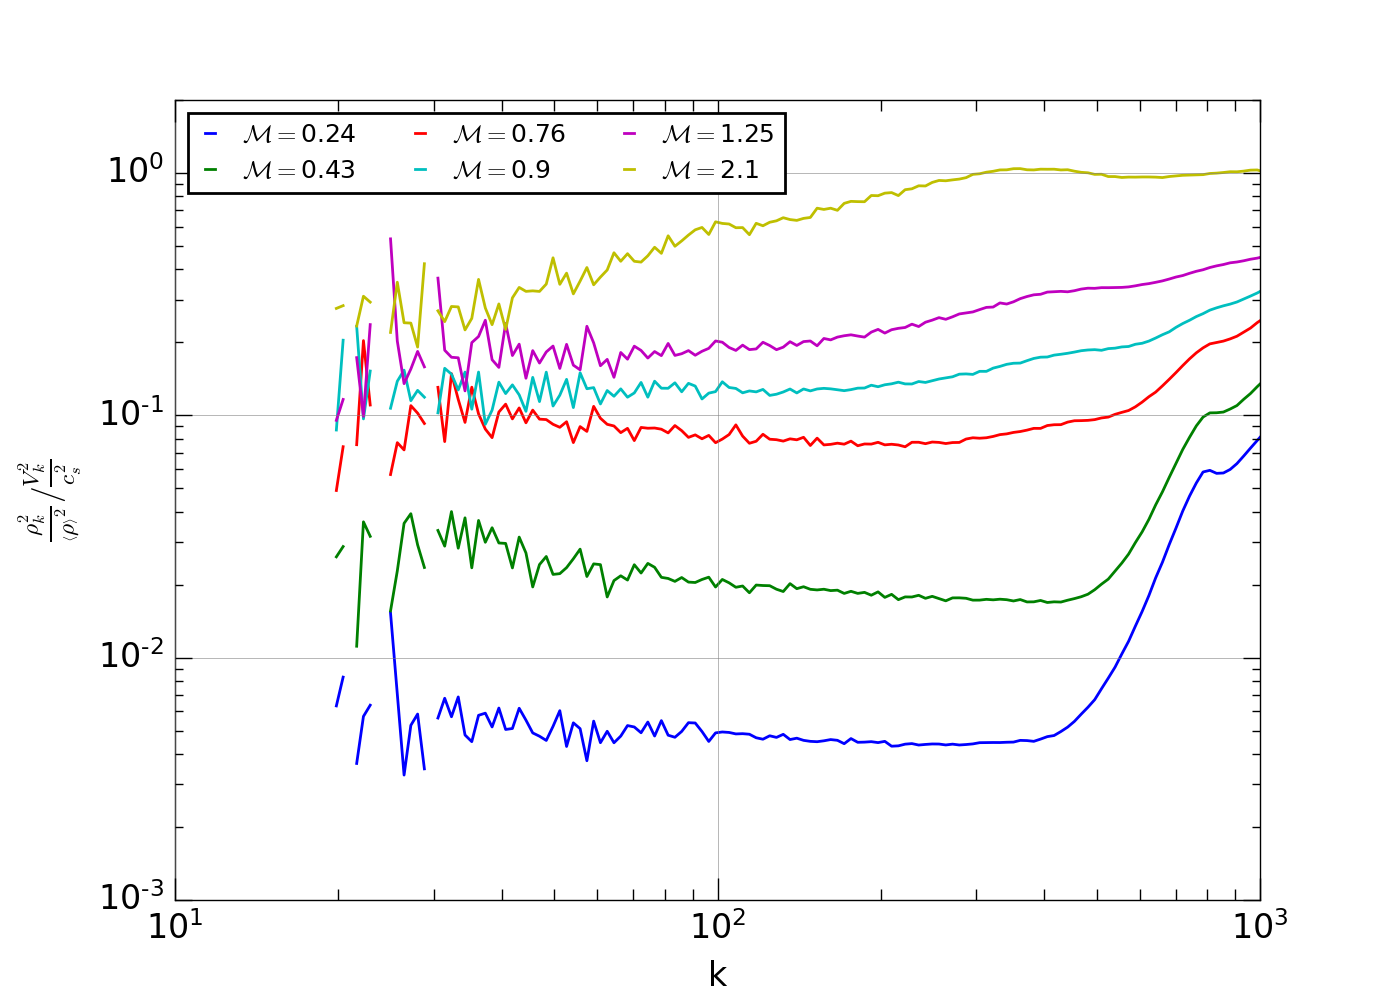
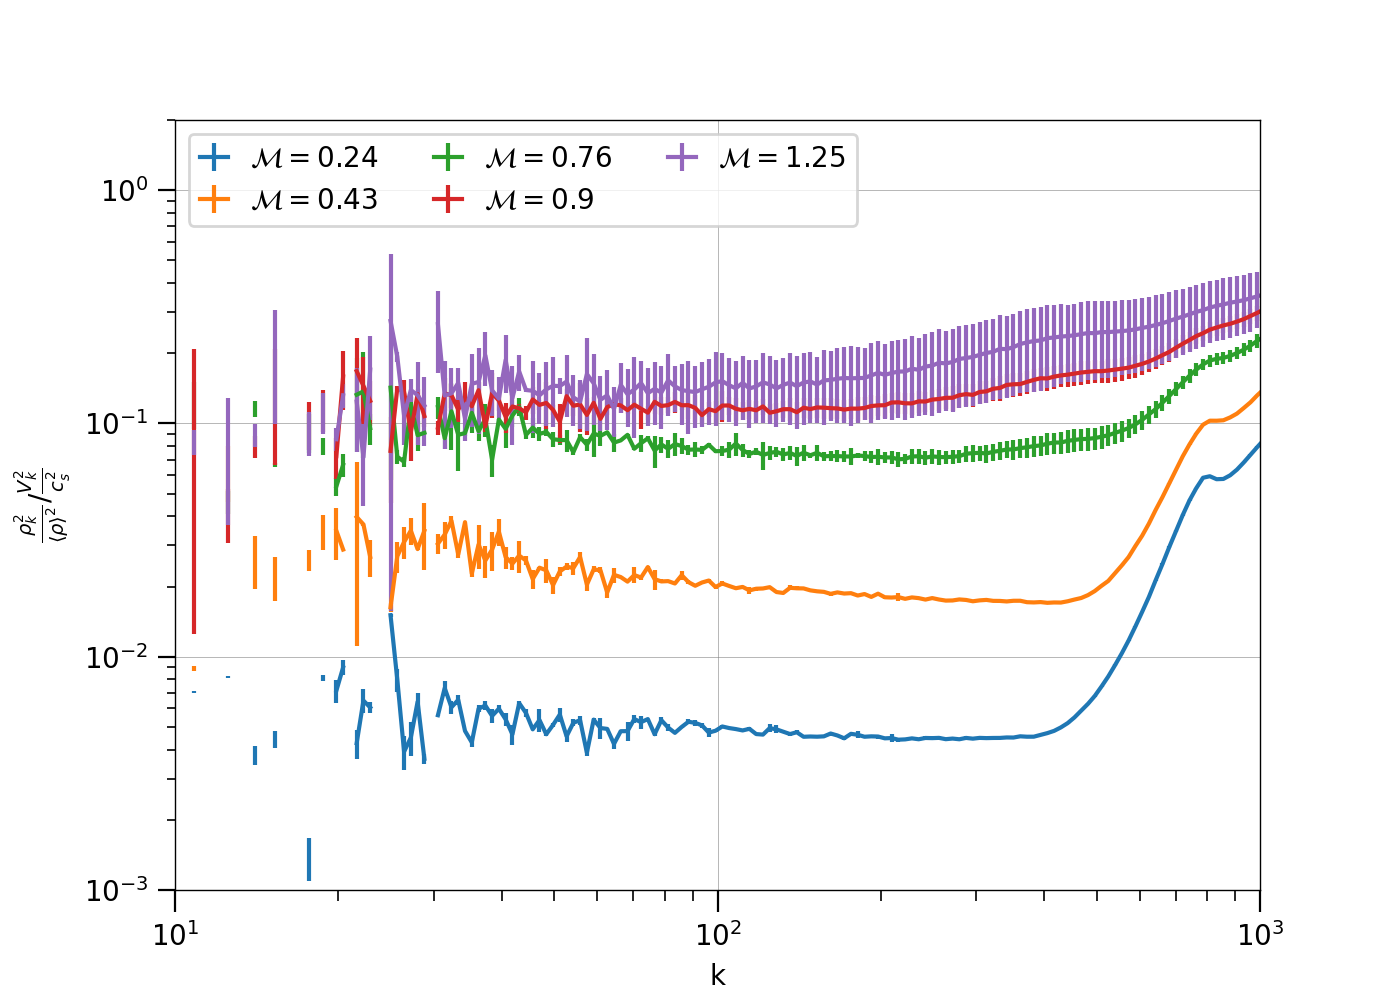
Added and modified plots

diff --git a/mach_temp_dist/mach-temp-dist.py b/mach_temp_dist/mach-temp-dist.py
@@ -30,32 +30,31 @@ nx,ny,nz=256,256,256
 
 #wdir=('thermal_heating/256/tabulated_cooling/F5e-1/k0-2/', 'thermal_heating/256/tabulated_cooling/F5e-1/k12/')
 #wdir=('tabulated_cooling/256/k0-2/', 'tabulated_cooling/256/k12/')
-wdir=('no_turb/2e-1/', 'turb_perturb//DkHC2e-1/', 'turb_perturb/DBh2e-1/')
+wdir=('no_turb/2e-1/')#, 'turb_perturb//DkHC2e-1/', 'turb_perturb/DBh2e-1/')
 
 #labels=('Bl', 'Bh')
 #labels=('Tl', 'Th')
-labels=('QD', 'TDh', 'BDh')
+labels=('QD')#, 'TDh', 'BDh')
 
 #t_mp=(10., 42.)
 #t_mp=(10., 51.)
-t_mp=(10.4, 42., 15.)
+t_mp=(10.4)#, 42., 15.)
 
 #t_turb=(1., 4.8)
 #t_turb=(0.8, 4.8)
-t_turb=(0.2, 10.2, 3.)
+t_turb=(0.2)#, 10.2, 3.)
 
-step_size=np.array((0.2, 0.2, 0.2))
+step_size=np.array((0.2))#, 0.2, 0.2))
 
 #Initialise the figure
 fig, (ax1, ax2) = plt.subplots(2, 1)
-for i1 in xrange(0, step_size.size):
-	filedir='/mnt/lustre/ug4/ugrajs/cooling/'+wdir[i1]
-	file=filedir+'mach'+str(int(t_turb[i1]/step_size[i1]+0.1)).rjust(4,'0')+'.txt'
-	data = np.loadtxt(file, skiprows=1, usecols=(0,1))
-	ax1.plot(data[:,0], data[:,1]/(float(nx*ny*nz)), label=labels[i1]+', t='+str(int(t_turb[i1]*UNIT_TIME))+' Myr')
-	file=filedir+'mach'+str(int(t_mp[i1]/step_size[i1]+0.1)).rjust(4,'0')+'.txt'
-	data = np.loadtxt(file, skiprows=1, usecols=(0,1))
-	ax1.plot(data[:,0], data[:,1]/(float(nx*ny*nz)), dashes=[30, 5, 10, 5], label=labels[i1]+', t='+str(int(t_mp[i1]*UNIT_TIME))+' Myr')
+filedir='/mnt/lustre/ug4/ugrajs/cooling/'+wdir
+file=filedir+'mach'+str(int(t_turb/step_size+0.1)).rjust(4,'0')+'.txt'
+data = np.loadtxt(file, skiprows=1, usecols=(0,1))
+ax1.plot(data[:,0], data[:,1]/(float(nx*ny*nz)), label=labels+', t='+str(int(t_turb*UNIT_TIME))+' Myr')
+file=filedir+'mach'+str(int(t_mp/step_size+0.1)).rjust(4,'0')+'.txt'
+data = np.loadtxt(file, skiprows=1, usecols=(0,1))
+ax1.plot(data[:,0], data[:,1]/(float(nx*ny*nz)), dashes=[30, 5, 10, 5], label=labels+', t='+str(int(t_mp*UNIT_TIME))+' Myr')
 fig.set_size_inches(6, 7)
 ax1.set_xscale('log')
 ax1.set_yscale('log')
@@ -70,14 +69,13 @@ ax1.set_position([box.x0, box.y0, box.width, box.height])
 ax1.legend(loc='lower center', ncol=3)
 #plt.savefig('mach-dist.png',dpi=250)
 
-for i1 in xrange(0, step_size.size):
-	filedir='/mnt/lustre/ug4/ugrajs/cooling/'+wdir[i1]
-	file=filedir+'temp'+str(int(t_turb[i1]/step_size[i1]+0.1)).rjust(4,'0')+'.txt'
-	data = np.loadtxt(file, skiprows=1, usecols=(0,1))
-	ax2.plot(data[:,0], data[:,1]/(float(nx*ny*nz)), label=labels[i1]+', t='+str(int(t_turb[i1]*UNIT_TIME))+' Myr')
-	file=filedir+'temp'+str(int(t_mp[i1]/step_size[i1]+0.1)).rjust(4,'0')+'.txt'
-	data = np.loadtxt(file, skiprows=1, usecols=(0,1))
-	ax2.plot(data[:,0], data[:,1]/(float(nx*ny*nz)), dashes=[30, 5, 10, 5], label=labels[i1]+', t='+str(int(t_mp[i1]*UNIT_TIME))+' Myr')
+filedir='/mnt/lustre/ug4/ugrajs/cooling/'+wdir
+file=filedir+'temp'+str(int(t_turb/step_size+0.1)).rjust(4,'0')+'.txt'
+data = np.loadtxt(file, skiprows=1, usecols=(0,1))
+ax2.plot(data[:,0], data[:,1]/(float(nx*ny*nz)), label=labels+', t='+str(int(t_turb*UNIT_TIME))+' Myr')
+file=filedir+'temp'+str(int(t_mp/step_size+0.1)).rjust(4,'0')+'.txt'
+data = np.loadtxt(file, skiprows=1, usecols=(0,1))
+ax2.plot(data[:,0], data[:,1]/(float(nx*ny*nz)), dashes=[30, 5, 10, 5], label=labels+', t='+str(int(t_mp*UNIT_TIME))+' Myr')
 ax2.set_xscale('log')
 ax2.set_yscale('log')
 ax2.set_xlim(1e5, 1e8)
@@ -92,7 +90,7 @@ ax2.legend(loc='lower center', ncol=3)
 
 #plt.savefig('mach-temp-dist-B.png',dpi=250, mode="expand", borderaxespad=0.)
 #plt.savefig('mach-temp-dist-T.png',dpi=250, mode="expand", borderaxespad=0.)
-plt.savefig('mach-temp-dist-D.png',dpi=250, mode="expand", borderaxespad=0.)
+plt.savefig('mach-temp-dist-no_turb.png',dpi=250, mode="expand", borderaxespad=0.)
 
 plt.close()
 

diff --git a/All_analysis/rho-vel-spectra.py b/All_analysis/rho-vel-spectra.py
@@ -20,7 +20,7 @@ plot.rcParams.update(params)
 start_time = time.time()
 
 #Initialise the figure
-fig, ax = plt.subplots()
+fig, (ax1, ax2) = plt.subplots(2, 1, sharex=True)
 fig.set_size_inches(7, 5)
 
 start=np.array((100, 75, 20, 14, 5, 2))
@@ -32,7 +32,7 @@ time_step=0.2
 no_bins=200
 no_files=2
 
-for i in xrange(0, start.size-1):
+for i in xrange(0, start.size):
 	#Load data files
 	#Declare all parameters and filenames, file location
 
@@ -56,6 +56,10 @@ for i in xrange(0, start.size-1):
 	   Ekcomp1[filenumber-start[i]]=epsilon[i]**(-2/3)*(datax1[:,2]+datax[:,2]+datax3[:,2])
 
 	k1=k1[0]
+	del_Ek1=np.std(Ek1,0)
+	Ek1=np.average(Ek1,0)
+	Ek_comp1=np.average(Ekcomp1,0)
+	del_Ek_comp1=np.std(Ekcomp1,0)
 
 	k2=np.zeros((no_files,no_bins))
 	Ek2=np.zeros((no_files,no_bins))
@@ -72,22 +76,36 @@ for i in xrange(0, start.size-1):
 #Calculate average energy injection
 	   Ekcomp2[filenumber-start[i]]=epsilon[i]**(-2/3)*data[:,2]
 	k2=k2[0]
-
-	ratiok=Ek2*cs[i]**2./Ek1
-	del_ratiok=np.std(ratiok,0)
-	ratio_k=np.average(ratiok,0)
+	del_Ek2=np.std(Ek2,0)
+	Ek2=np.average(Ek2,0)
+	Ek_comp2=np.average(Ekcomp2,0)
+	del_Ek_comp2=np.std(Ekcomp2,0)
+#Here we plot the compensated power spectrum, multiplying E(k) with k^(5/3)
 	#Plot ratio
-	ax.errorbar(k1[1:-10], ratio_k[1:-10], yerr=del_ratiok[1:-10], label='$\mathcal{M}=$'+str(mach[i]))
+	ax1.errorbar(k1[1:-10],Ek1[1:-10]/cs[i]**2., yerr=del_Ek1[1:-10]/cs[i]**2., fmt='d', label='$\mathcal{M}=$'+str(mach[i]), markersize=0.5)
+	ax2.errorbar(k1[1:-10],Ek2[1:-10], yerr=del_Ek2[1:-10], fmt='*', label='$\mathcal{M}=$'+str(mach[i]), markersize=0.5)
 
-ax.set_yscale('log')
-ax.set_xscale('log')
-ax.set_xlabel('k')
-ax.set_ylabel(r'$\frac{\rho_k^2}{\left<\rho\right>^2}/\frac{V_k^2}{c_s^2}$')
-ax.set_ylim(1.e-3,2.)
-ax.set_xlim(1.e1,1e3)
-ax.legend(loc='upper left', bbox_to_anchor=(0., 1.0), ncol=3)
+x=np.arange(10., 10**3., 1.)
+ax1.plot(x, 5*x**(-5./3.), label=r'$k^{-5/3}$', marker="o", markeredgecolor='none', markersize=0.5, linewidth=0.5)
+ax1.set_yscale('log')
+ax1.set_xscale('log')
+ax1.set_xlabel('k')
+ax1.set_ylabel(r'$\frac{V_k^2}{c_s^2}$')
+#ax1.set_ylim(1.e-3,2.)
+#ax1.set_xlim(1.e1,1e3)
+ax1.legend(loc='lower left', bbox_to_anchor=(0., 0.0), ncol=3)
+
+ax2.plot(x, 5*x**(-5./3.), label=r'$k^{-5/3}$', marker="o", markeredgecolor='none', markersize=0.5, linewidth=0.5)
+ax2.set_yscale('log')
+ax2.set_xscale('log')
+ax2.set_xlabel('k')
+ax2.set_ylabel(r'$\frac{\rho_k^2}{\left<\rho\right>^2}$')
+#ax2.set_ylim(1.e-3,2.)
+#ax2.set_xlim(1.e1,1e3)
+ax2.legend(loc='lower left', bbox_to_anchor=(0., 0.0), ncol=3)
 #ax.set_title(r'Ratio of velocity and density power spectra' )
-ax.grid(color='grey', linestyle='-', linewidth=0.2)
-plt.savefig('Ratio_spectra_256.png',dpi=200)
+ax2.grid(color='grey', linestyle='-', linewidth=0.2)
+ax1.grid(color='grey', linestyle='-', linewidth=0.2)
+plt.savefig('rho-vel-spectra_256.png',dpi=200)
 
 print("--- %s seconds ---" % (time.time() - start_time))

diff --git a/surface_brightness/sbk_rhok_ratio.py b/surface_brightness/sbk_rhok_ratio.py
@@ -1,0 +1,61 @@
+import numpy as np
+import matplotlib.pyplot as plt
+import matplotlib.colors as colors
+import time
+from scipy.optimize import curve_fit
+from scipy import stats
+import pylab as plot
+plt.style.use('classic')
+params = {'legend.fontsize':10.,
+          'legend.handlelength': 1.0}
+plt.rcParams['axes.linewidth'] = .5
+plt.rcParams['xtick.major.size'] = 8
+plt.rcParams['xtick.minor.size'] = 4
+plt.rcParams['ytick.major.size'] = 6
+plt.rcParams['ytick.minor.size'] = 3
+plt.rcParams['ytick.minor.size'] = 3
+plot.rcParams.update(params)
+
+#Compute how long the simulation takes
+start_time = time.time()
+
+#Initialise the figure
+
+start=np.array((83, 100, 75, 35, 20, 18, 14, 5, 4, 2))
+amp=np.array((0.005, 0.005, 0.02, 0.02, 0.10, 0.1, 0.1, 0.9, 0.9, 2.5))
+mach=np.array((0.21, 0.24, 0.43, 0.50, 0.75, 0.8, 0.9, 1.2, 1.5, 2.0))
+time_step=0.2
+no_bins=200
+no_files=1
+sb_dev=np.zeros((start.size))
+sb_mean=np.zeros((start.size))
+
+#fig, ax = plt.subplots()
+fig, (ax1, ax2) = plt.subplots(2, 1, sharex=True)
+fig.set_size_inches(7, 7)
+for i in xrange(start.size):
+	filedir='/mnt/lustre/ug4/ugrajs/fiducial_runs/256/amp'+str(int(amp[i]*10000)).rjust(5,'0')+'/'
+        rhok=np.loadtxt(filedir+'Rhoks'+str(start[i]).rjust(4,'0')+'.txt')
+        sbk =np.loadtxt(filedir+'sbks'+str(start[i]).rjust(4,'0')+'.txt')
+	if (i%3<1e-1):
+		ax1.errorbar(rhok[:,0][1:-10], rhok[:,1][1:-10], fmt='d', label=r'$\mathcal{M}=$'+str(mach[i]), markeredgecolor='None')
+		ax2.errorbar(sbk[:,0][1:-10], sbk[:,1][1:-10], fmt='*', label=r'$\mathcal{M}=$'+str(mach[i]), markeredgecolor='None')
+
+x=np.arange(10., 10**3., 1.)
+
+ax1.plot(x, 5*x**(-5./3.), label=r'$k^{-5/3}$')
+ax1.set_yscale('log')
+ax1.set_xscale('log')
+ax1.set_ylabel(r'$|\rho_k|^2$', fontsize=12)
+ax1.set_xlim(1e1, 1e3)
+ax1.set_ylim(1e-11,)
+ax1.legend(loc='lower left', ncol=5)
+
+ax2.plot(x, 8e-8*x**(-8./3.), label=r'$k^{-8/3}$')
+ax2.set_yscale('log')
+ax2.set_xscale('log')
+ax2.set_ylabel(r'$|SB_k|^2$',  fontsize=12)
+ax2.set_xlim(1e1,1e3)
+ax2.legend(loc='lower left', ncol=5)
+ax2.set_xlabel('k',  fontsize=12)
+plt.savefig('SBk_rhok.png', dpi=250)

diff --git a/rho-mach/density_mach_256.py b/rho-mach/density_mach_256.py
@@ -3,8 +3,8 @@ import matplotlib.pyplot as plt
 import pylab as plot
 import seaborn as sns
 
-plt.style.use('classic')
-params = {'legend.fontsize':10,
+#plt.style.use('classic')
+params = {'legend.fontsize':12,
           'legend.handlelength': 2}
 plt.rcParams['axes.linewidth'] = 0.5
 plt.rcParams['xtick.major.size'] = 8
@@ -17,8 +17,8 @@ plot.rcParams.update(params)
 #Declare all parameters and filenames, file location
 
 #Load data files
-amp=np.array((0.020,0.1,0.9,2.5))
-t_start=np.array((5.0,2.0,1.0,0.5))
+amp=np.array((0.1,0.9,2.5))
+t_start=np.array((2.0,1.0,0.5))
 #t_start sets time at which statistical equilibrium has been reached
 
 NUM_COLORS = 10
